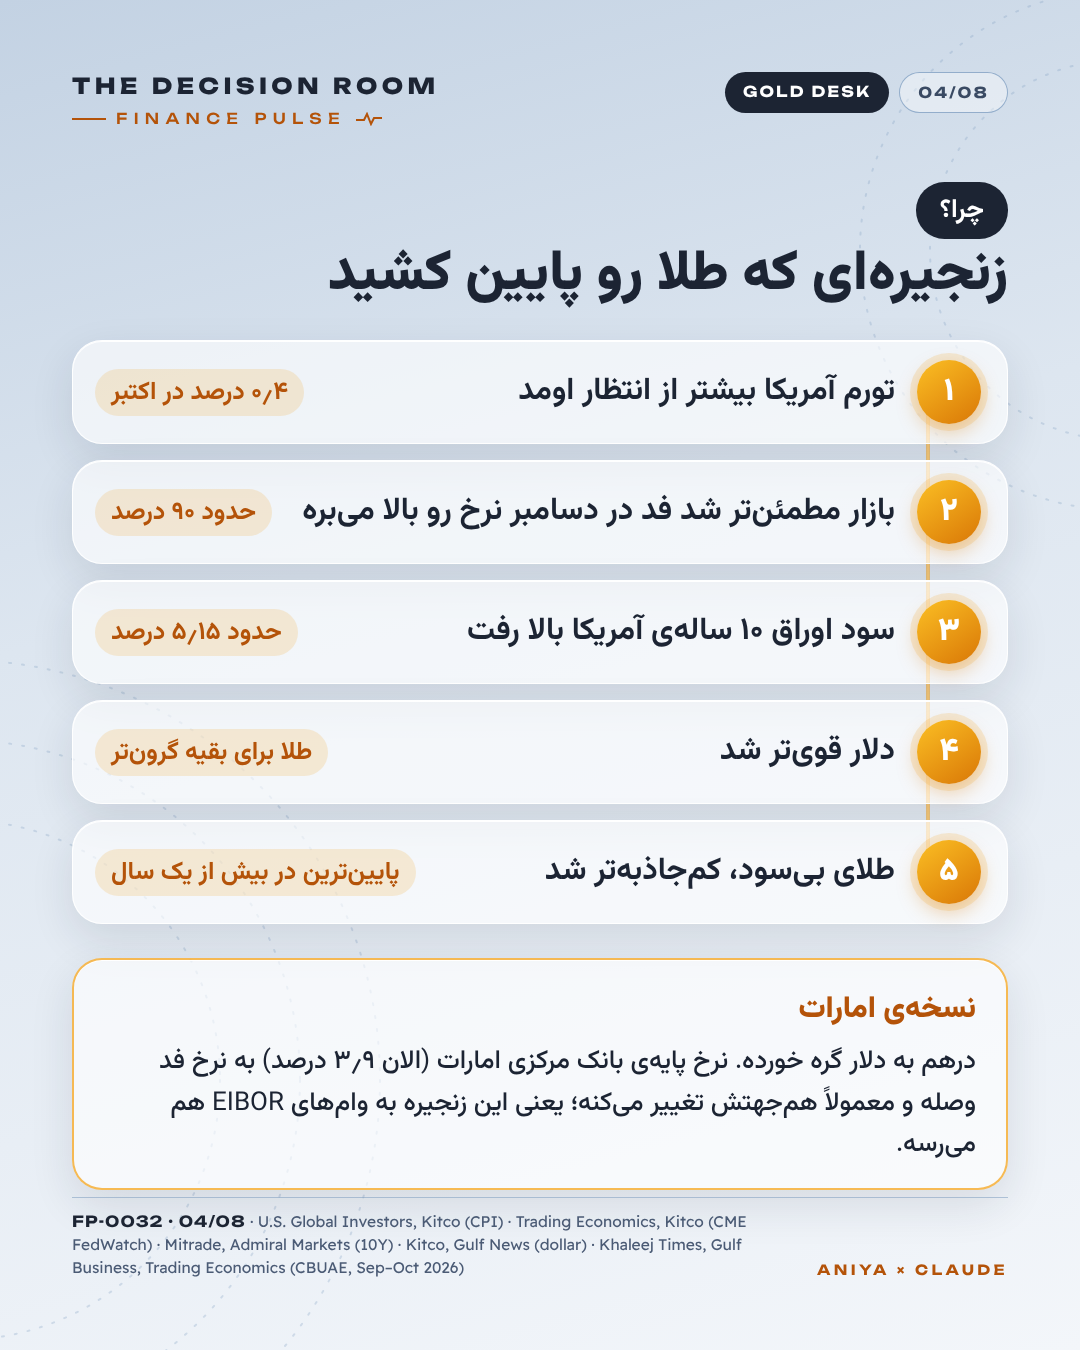
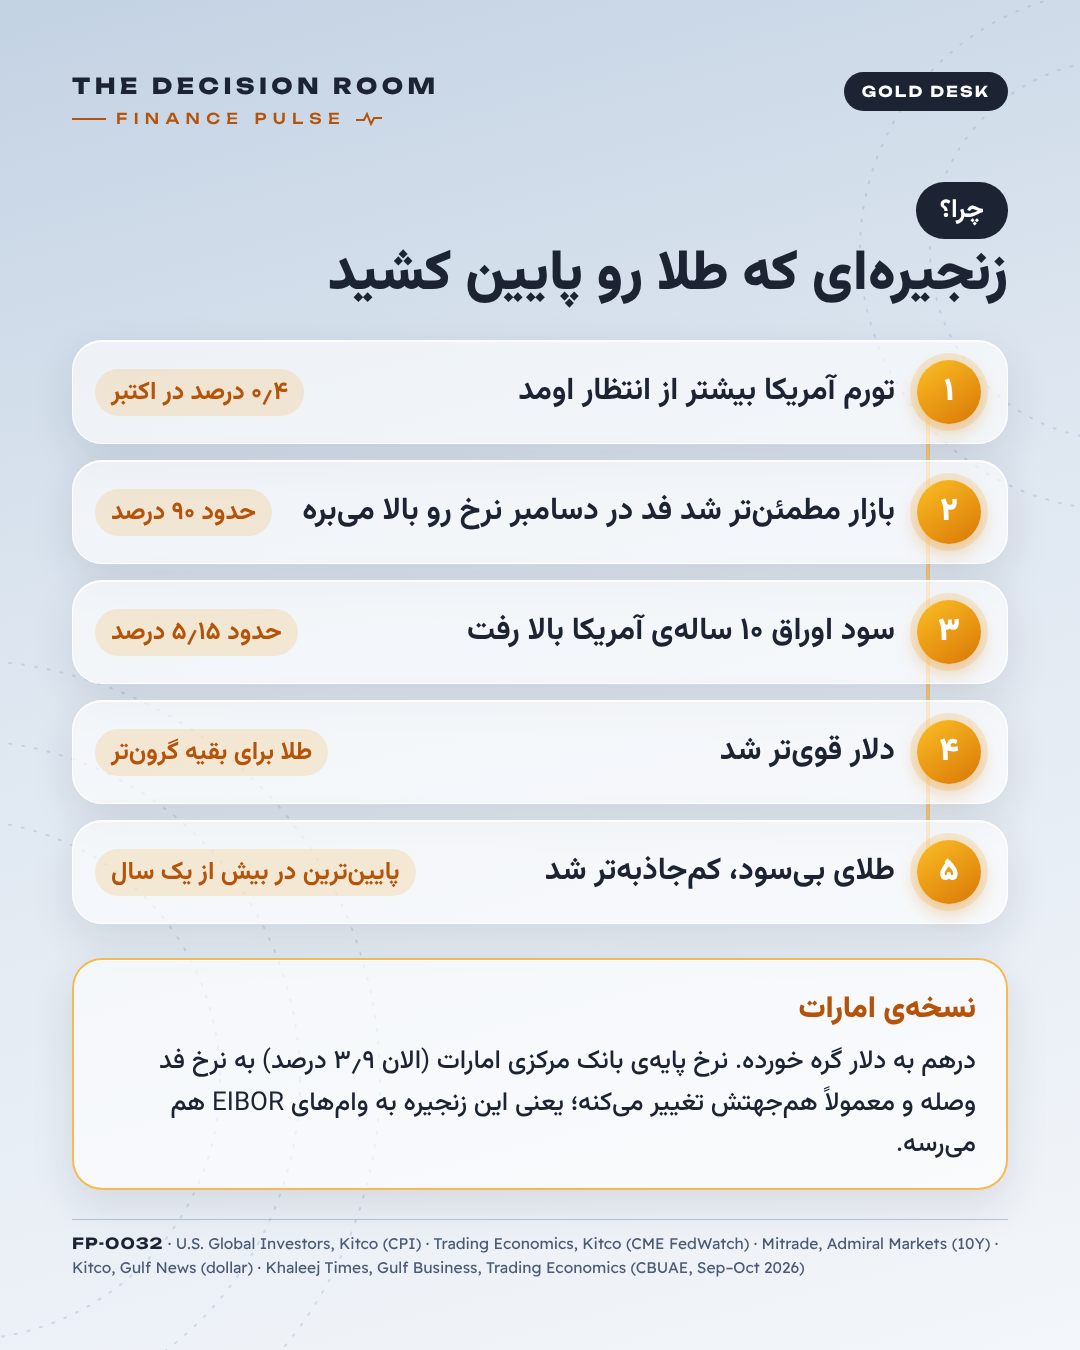
FP-0032: remove signature and page numbers (Aniya's request); kit flags SHOW_SIG / SHOW_PAGES
Claude-Session: https://claude.ai/code/session_019CnqEVQqtyBGcCmjTDy5mT

Changed region(s): [[0.0611, 0.9022, 0.9167, 0.9644], [0.6722, 0.0311, 0.9472, 0.0933]]

diff --git a/kit/carousel/build_carousel.py b/kit/carousel/build_carousel.py
@@ -90,14 +90,17 @@ def bgfx(theme, i):
 <circle cx="1120" cy="250" r="190"/><circle cx="1120" cy="250" r="260"/></g>
 </svg>"""
 
-def page(serial, tag, n, total, s, i):
+def page(serial, tag, n, total, s, i, sig=True, pages=True):
     th = s["theme"]
+    pg_tag = f'<span class="tag p">{n:02d}/{total:02d}</span>' if pages else ""
+    pg_ft = f" · {n:02d}/{total:02d}" if pages else ""
+    sig_html = '<div class="sig">ANIYA × CLAUDE</div>' if sig else ""
     return f"""<section class="slide {th}" id="s{n:02d}">{bgfx(th, i)}
 <div class="safe">
 <header><div><div class="l1">THE DECISION ROOM</div><div class="l2"><span style="display:inline-block;width:34px;height:2px;background:currentColor"></span>FINANCE PULSE <svg width="26" height="14" viewBox="0 0 26 14"><path d="M0 8h8l3-6 4 10 3-6h8" fill="none" stroke="currentColor" stroke-width="2"/></svg></div></div>
-<div class="tags"><span class="tag k">{tag}</span><span class="tag p">{n:02d}/{total:02d}</span></div></header>
+<div class="tags"><span class="tag k">{tag}</span>{pg_tag}</div></header>
 {s['body'].replace('{PULSE}', PULSE.replace('{i}', str(i)))}
-<footer><div class="r"><b>{serial} · {n:02d}/{total:02d}</b> · {s['src']}</div><div class="sig">ANIYA × CLAUDE</div></footer>
+<footer><div class="r"><b>{serial}{pg_ft}</b> · {s['src']}</div>{sig_html}</footer>
 </div></section>"""
 
 def main(mod_path, out_dir):
@@ -105,7 +108,7 @@ def main(mod_path, out_dir):
     deck = importlib.util.module_from_spec(spec); spec.loader.exec_module(deck)
     total = len(deck.SLIDES)
     html = "<!doctype html><html lang='fa'><head><meta charset='utf-8'><style>" + CSS.replace("url(F/", f"url({FONTS}/") + getattr(deck, "EXTRA_CSS", "") + "</style></head><body>"
-    html += "".join(page(deck.SERIAL, deck.TAG, n + 1, total, s, n) for n, s in enumerate(deck.SLIDES))
+    html += "".join(page(deck.SERIAL, deck.TAG, n + 1, total, s, n, getattr(deck, "SHOW_SIG", True), getattr(deck, "SHOW_PAGES", True)) for n, s in enumerate(deck.SLIDES))
     html += "</body></html>"
     out = pathlib.Path(out_dir).resolve(); out.mkdir(parents=True, exist_ok=True)
     hp = out / "deck.html"; hp.write_text(html, encoding="utf-8")

diff --git a/kit/carousel/fp0032.py b/kit/carousel/fp0032.py
@@ -2,6 +2,8 @@
 # "|" in Persian text = ZWNJ (replaced at build time).
 SERIAL = "FP-0032"
 TAG = "GOLD DESK"
+SHOW_SIG = False    # Aniya, 16 Nov: no ANIYA x CLAUDE signature
+SHOW_PAGES = False  # Aniya, 16 Nov: no page numbers
 
 EXTRA_CSS = """
 .hud{font-family:Unb;font-weight:500;font-size:13px;letter-spacing:.18em;fill:#9FB4D0}
